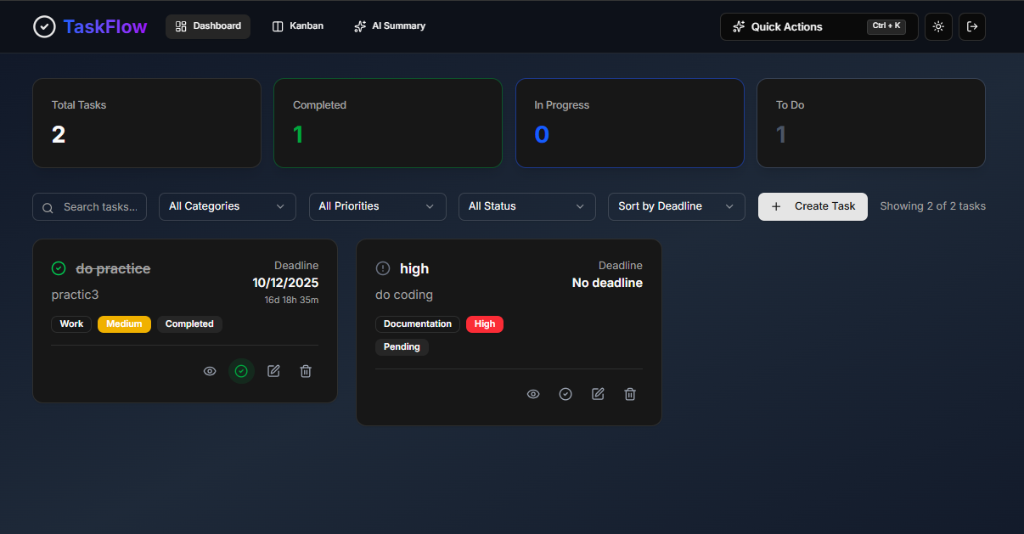
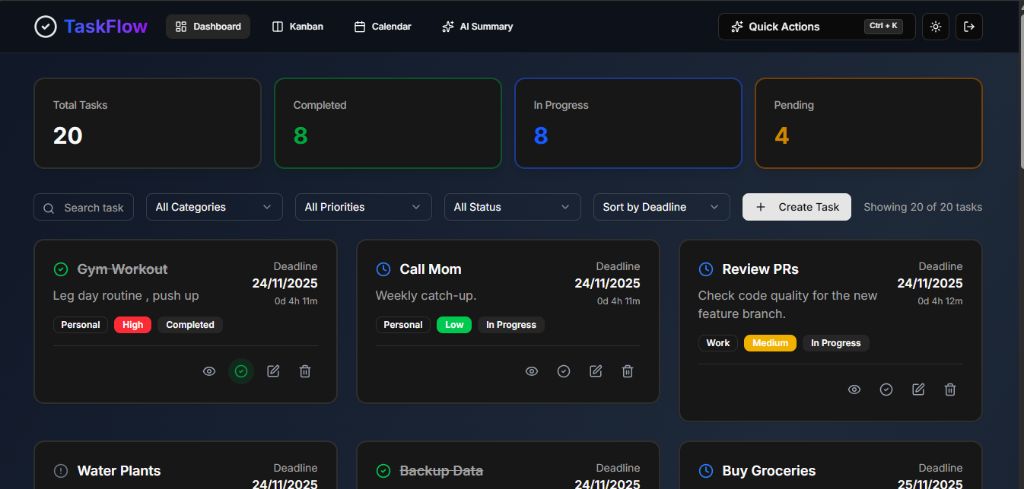
update

diff --git a/README.md b/README.md
@@ -2,7 +2,13 @@
 
 ![TaskFlow Banner](./screenshots/banner.png)
 
-TaskFlow is a production-grade, full-stack task management application designed to help users organize their life and work efficiently. Built with modern technologies, it features secure authentication, real-time task tracking, and AI-powered productivity insights.
+TaskFlow is a full-stack task management application designed to help users organize their life and work efficiently. Built with modern technologies, it features secure authentication, real-time task tracking, and AI-powered productivity insights.
+
+### 🔗 Live Deployments
+- **Frontend:** [https://task-flow-rare.vercel.app/](https://task-flow-rare.vercel.app/)
+- **Backend API:** [https://taskflow-production-a883.up.railway.app/](https://taskflow-production-a883.up.railway.app/)
+
+> ✅ **AI Feature Status:** Fully Implemented (Weekly Summaries & Insights)
 
 ## 🚀 Features
 
@@ -32,6 +38,10 @@ TaskFlow is a production-grade, full-stack task management application designed 
 - **Language**: TypeScript
 - **Styling**: TailwindCSS, Shadcn/UI
 - **State Management**: Redux Toolkit
+- **Drag & Drop**: @dnd-kit (Core, Sortable, Utilities)
+- **Notifications**: Sonner (Toast)
+- **Markdown**: React Markdown (for AI summaries)
+- **Date Handling**: Date-fns
 - **Animations**: Framer Motion
 - **Icons**: Lucide React
 
@@ -41,6 +51,29 @@ TaskFlow is a production-grade, full-stack task management application designed 
 - **ORM**: SQLAlchemy (Async)
 - **Auth**: Python-Jose (JWT)
 - **AI Integration**: Google Gemini API
+- **Documentation**: Swagger UI (Auto-generated)
+
+---
+
+## 📂 Project Structure
+
+```
+├── backend/
+│   ├── routers/         # API Endpoints (Auth, Tasks, AI)
+│   ├── services/        # Business Logic & CRUD
+│   ├── models.py        # Database Models
+│   ├── schemas.py       # Pydantic Schemas
+│   └── main.py          # App Entry Point
+├── frontend/
+│   ├── src/
+│   │   ├── app/         # Next.js App Router Pages
+│   │   ├── components/  # Reusable UI Components
+│   │   ├── hooks/       # Custom React Hooks
+│   │   ├── store/       # Redux State Management
+│   │   └── lib/         # Utilities (API, Utils)
+│   └── public/          # Static Assets
+└── README.md
+```
 
 ---
 
@@ -78,21 +111,29 @@ Powerful task organization with multiple views and smart filtering.
   </tr>
 </table>
 
-### Kanban Board & Calendar
-Visualize your workflow with drag-and-drop Kanban and calendar views.
+### Kanban Board
+Visualize your workflow with drag-and-drop Kanban boards.
 
 <table>
   <tr>
     <td width="50%">
-      <img src="./screenshots/kanban-board-page.png" alt="Kanban Board" />
-      <p align="center"><b>Kanban Board</b></p>
+      <img src="./screenshots/kanban-board-light.png" alt="Kanban Board Light" />
+      <p align="center"><b>Kanban - Light Mode</b></p>
     </td>
     <td width="50%">
-      <img src="./screenshots/calendar-page.png" alt="Calendar View" />
-      <p align="center"><b>Calendar View</b></p>
+      <img src="./screenshots/kanban-board-dark.png" alt="Kanban Board Dark" />
+      <p align="center"><b>Kanban - Dark Mode</b></p>
     </td>
   </tr>
 </table>
+
+### Calendar View
+Track deadlines effectively with the monthly calendar view.
+
+<p align="center">
+  <img src="./screenshots/calendar-page.png" alt="Calendar View" width="800" />
+</p>
+<p align="center"><b>Calendar View</b></p>
 
 ### Task Details & Subtasks
 Comprehensive task management with countdown timers and subtask tracking.
@@ -153,6 +194,7 @@ GEMINI_MODEL=gemini-2.5-flash
 uvicorn main:app --reload
 ```
 *Server will start at `http://localhost:8000`*
+*API Documentation available at `http://localhost:8000/docs`*
 
 ### 2. Frontend Setup
 ```bash
